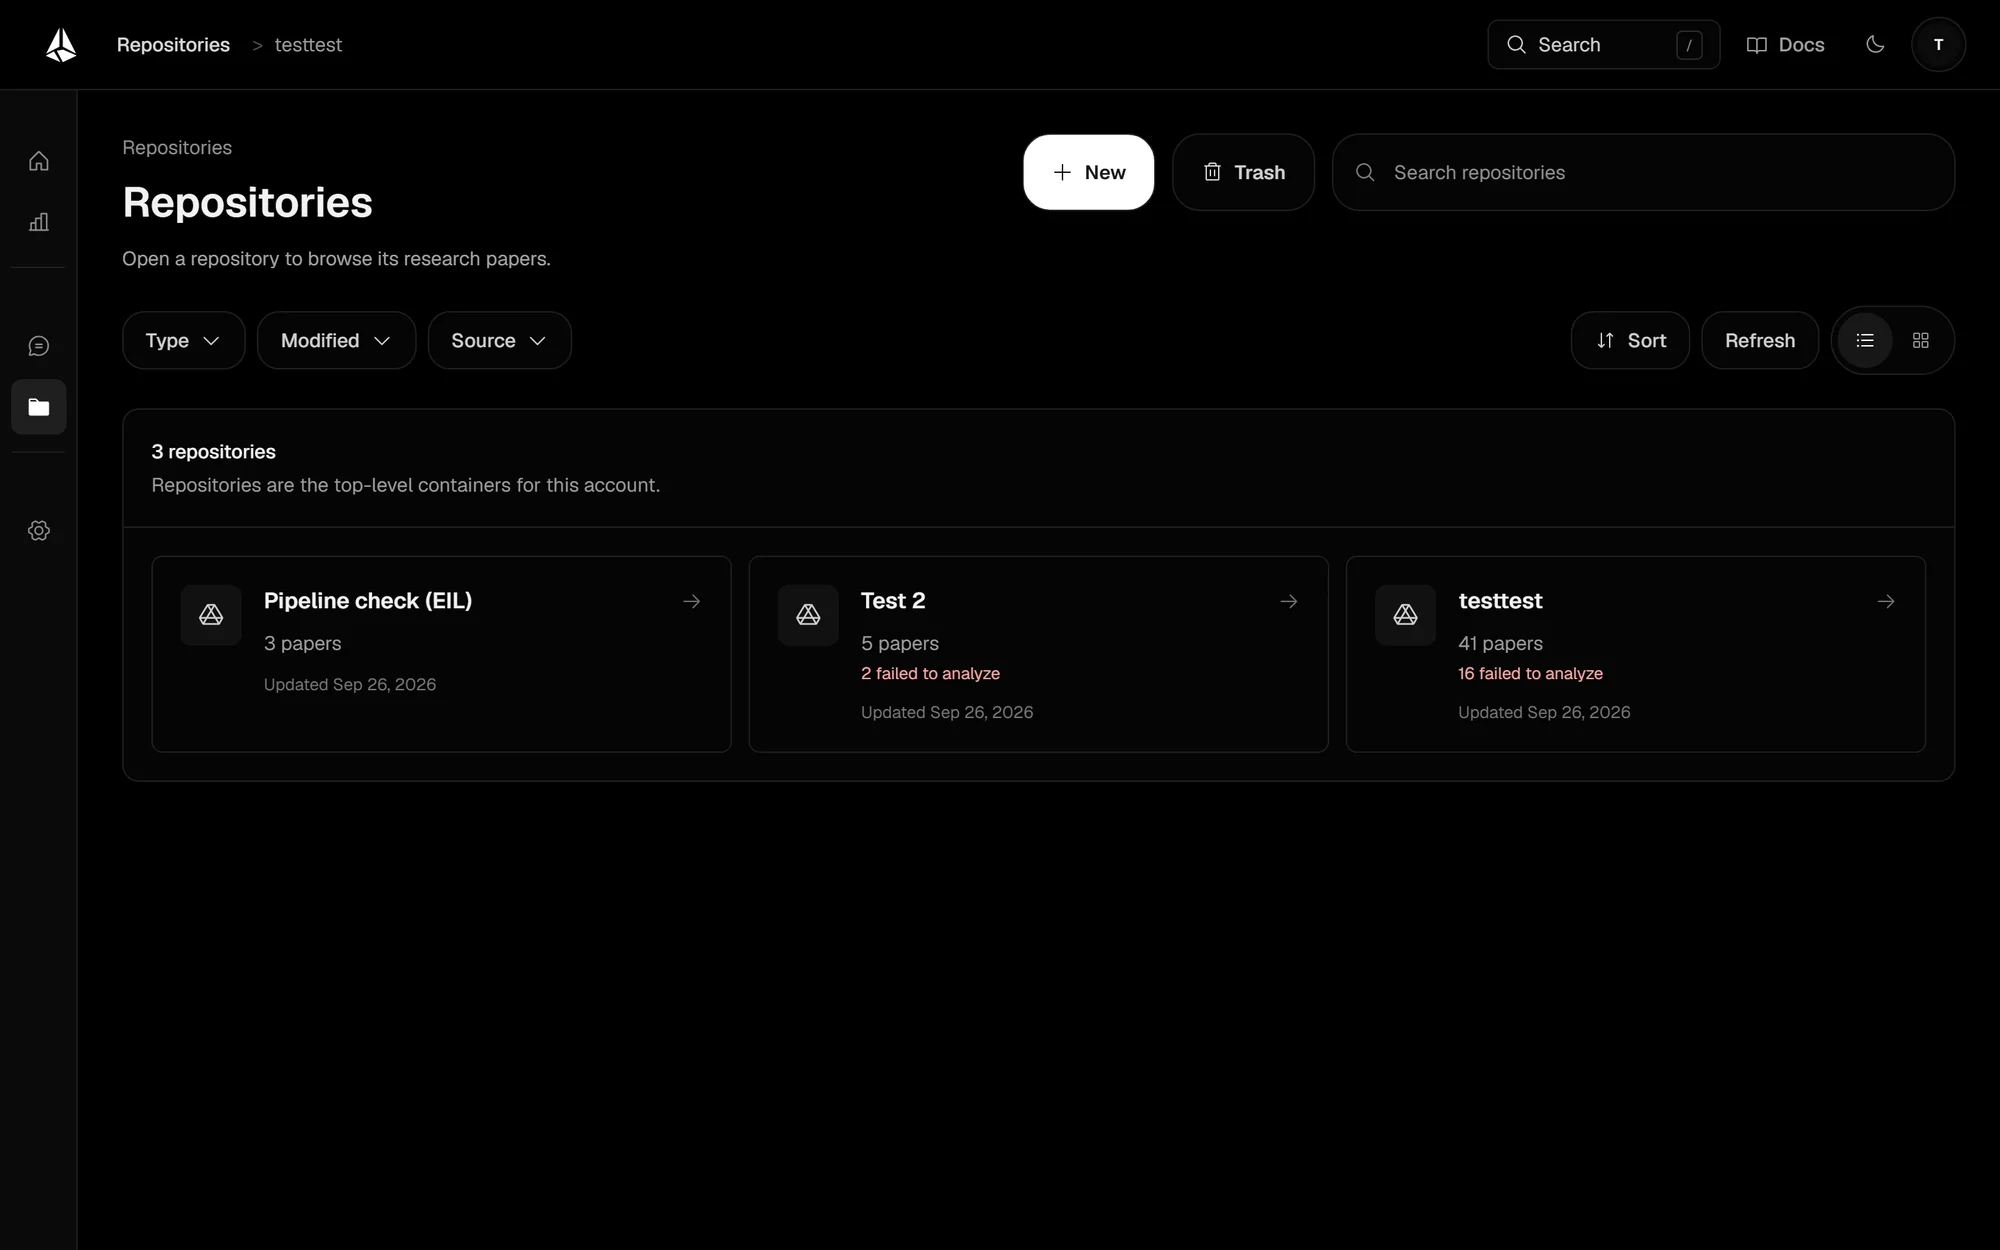
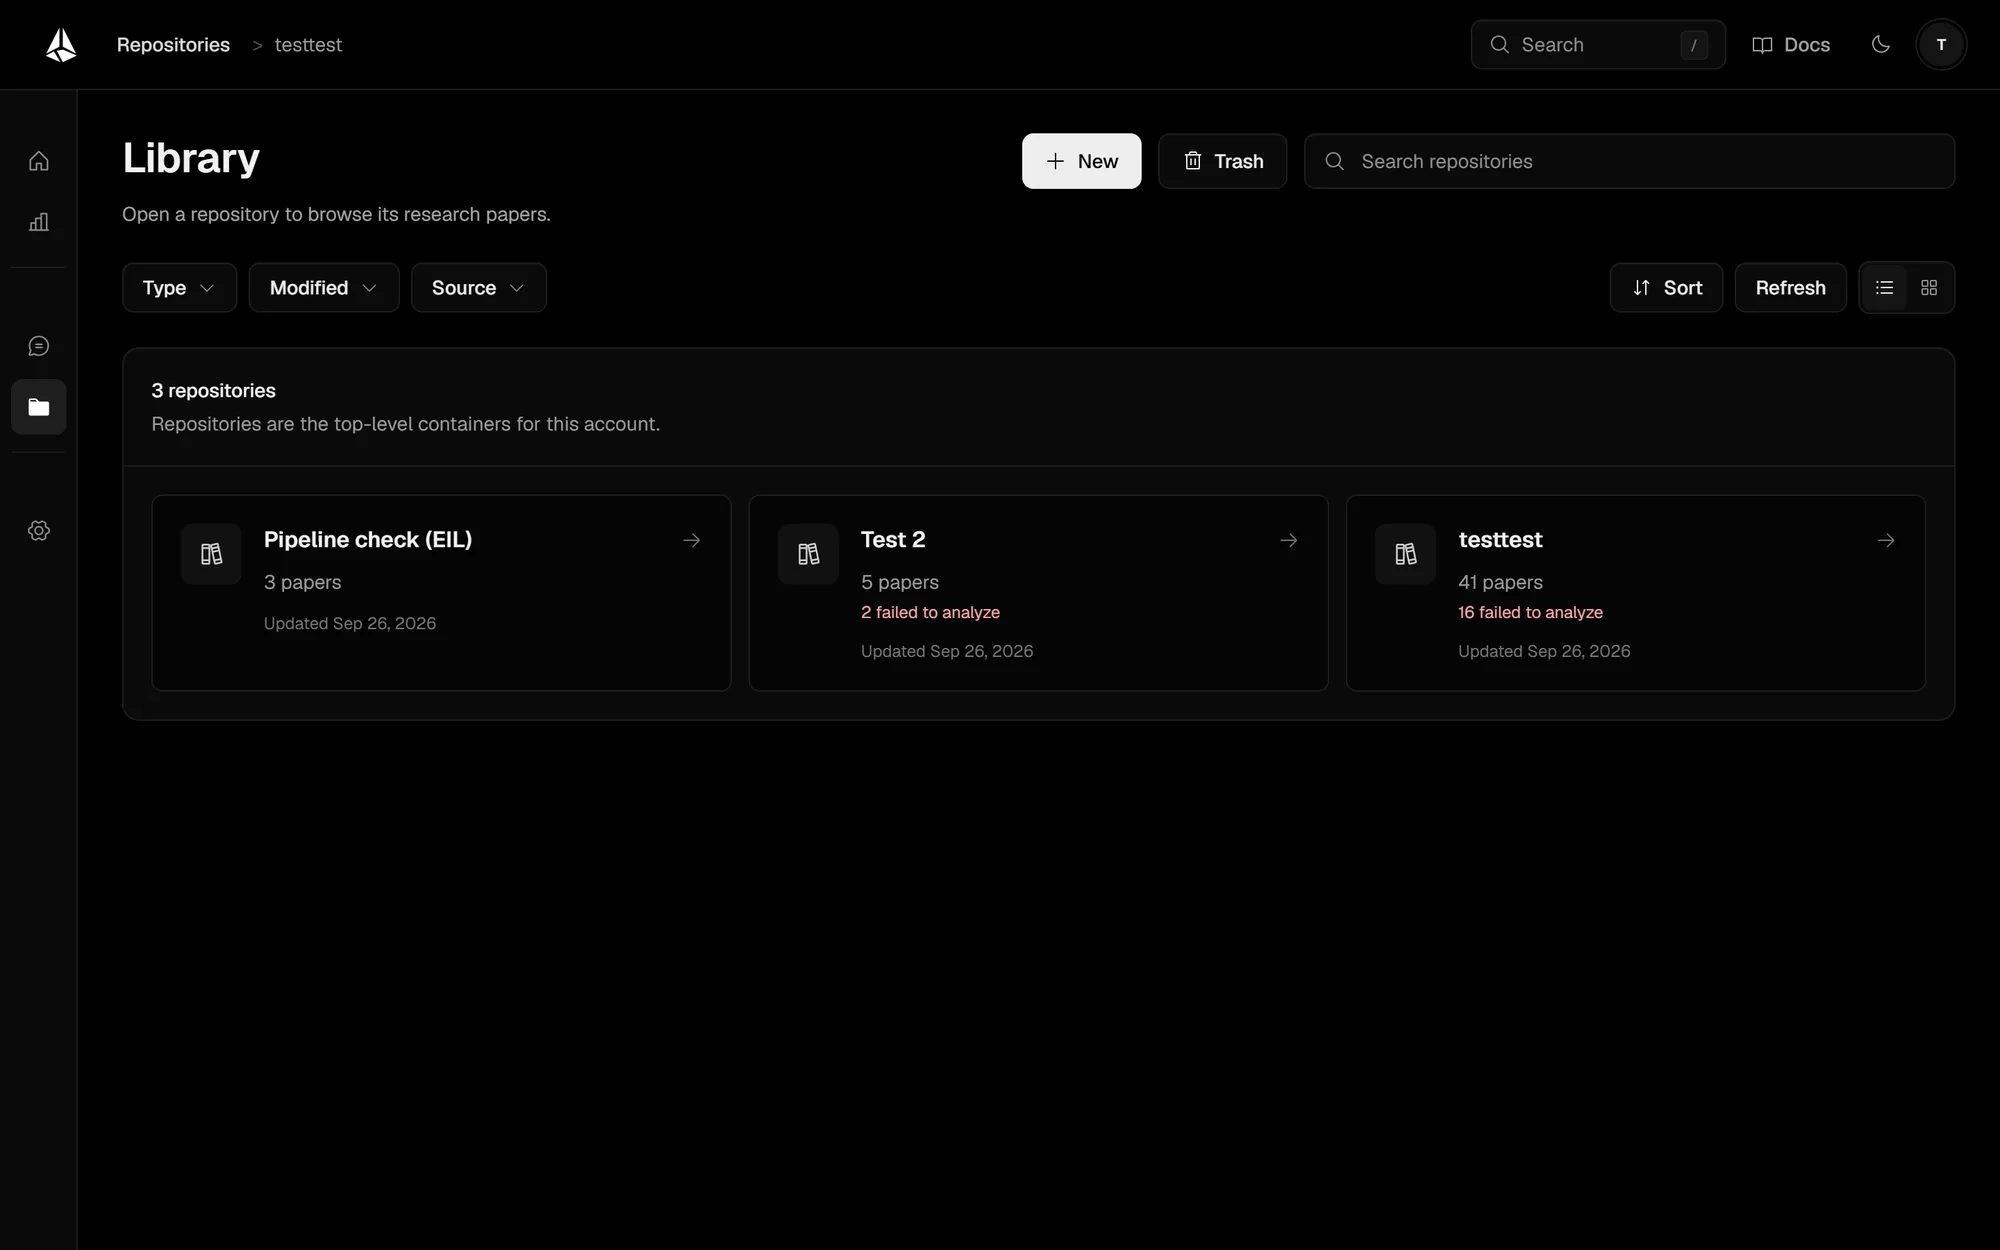
fix(chat): the composer shows focus on its border; fresh product screenshots
The global focus outline beat the message box's outline-none and drew a blue
rectangle inside the rounded composer. The composer's own border now turns the
focus colour instead.

All twenty marketing screenshots are retaken from the pilot: the chat shot
shows numbered citations where it showed raw [Paper ...] ids, and the Library
shot shows one heading.

diff --git a/eil-dashboard/src/components/chat/ChatClient.tsx b/eil-dashboard/src/components/chat/ChatClient.tsx
@@ -3511,7 +3511,9 @@ export default function ChatClient() {
 
           <div className="flex-none bg-slate-100 px-4 pb-6 pt-3 dark:bg-black sm:px-6 xl:px-8">
             <form onSubmit={handleSubmit} className="mx-auto w-full max-w-[1040px]">
-              <div className="rounded-xl border border-slate-200 bg-white px-4 pb-3 pt-3 shadow-[0_10px_34px_rgba(15,23,42,0.12)] dark:border-[#1f1f1f] dark:bg-[#050505] dark:shadow-[0_12px_40px_rgba(0,0,0,0.35)]">
+              {/* The composer shows keyboard focus on its own border, rather
+                  than an outline drawn inside it around the text box. */}
+              <div className="rounded-xl border border-slate-200 bg-white px-4 pb-3 pt-3 shadow-[0_10px_34px_rgba(15,23,42,0.12)] transition-colors duration-150 has-[textarea:focus-visible]:border-[rgb(var(--focus))] dark:border-[#1f1f1f] dark:bg-[#050505] dark:shadow-[0_12px_40px_rgba(0,0,0,0.35)] dark:has-[textarea:focus-visible]:border-[rgb(var(--focus))]">
                 {error ? (
                   <div role="alert" className="mb-3 rounded-xl border border-red-500/20 bg-red-500/10 px-3 py-2 text-sm text-red-700 dark:text-red-200">
                     {error}
@@ -3665,7 +3667,7 @@ export default function ChatClient() {
                       : "Ask the repository…"
                   }
                   rows={1}
-                  className="max-h-[220px] min-h-[28px] w-full resize-none overflow-y-auto bg-transparent px-1 py-1 text-[16px] leading-8 text-slate-900 outline-none placeholder:text-slate-600 dark:text-[#ececec] dark:placeholder:text-[#8e8e8e]"
+                  className="max-h-[220px] min-h-[28px] w-full resize-none overflow-y-auto bg-transparent px-1 py-1 text-[16px] leading-8 text-slate-900 outline-none focus-visible:outline-none placeholder:text-slate-600 dark:text-[#ececec] dark:placeholder:text-[#8e8e8e]"
                 />
 
                 <div className="mt-3 flex flex-wrap items-center justify-between gap-3">
